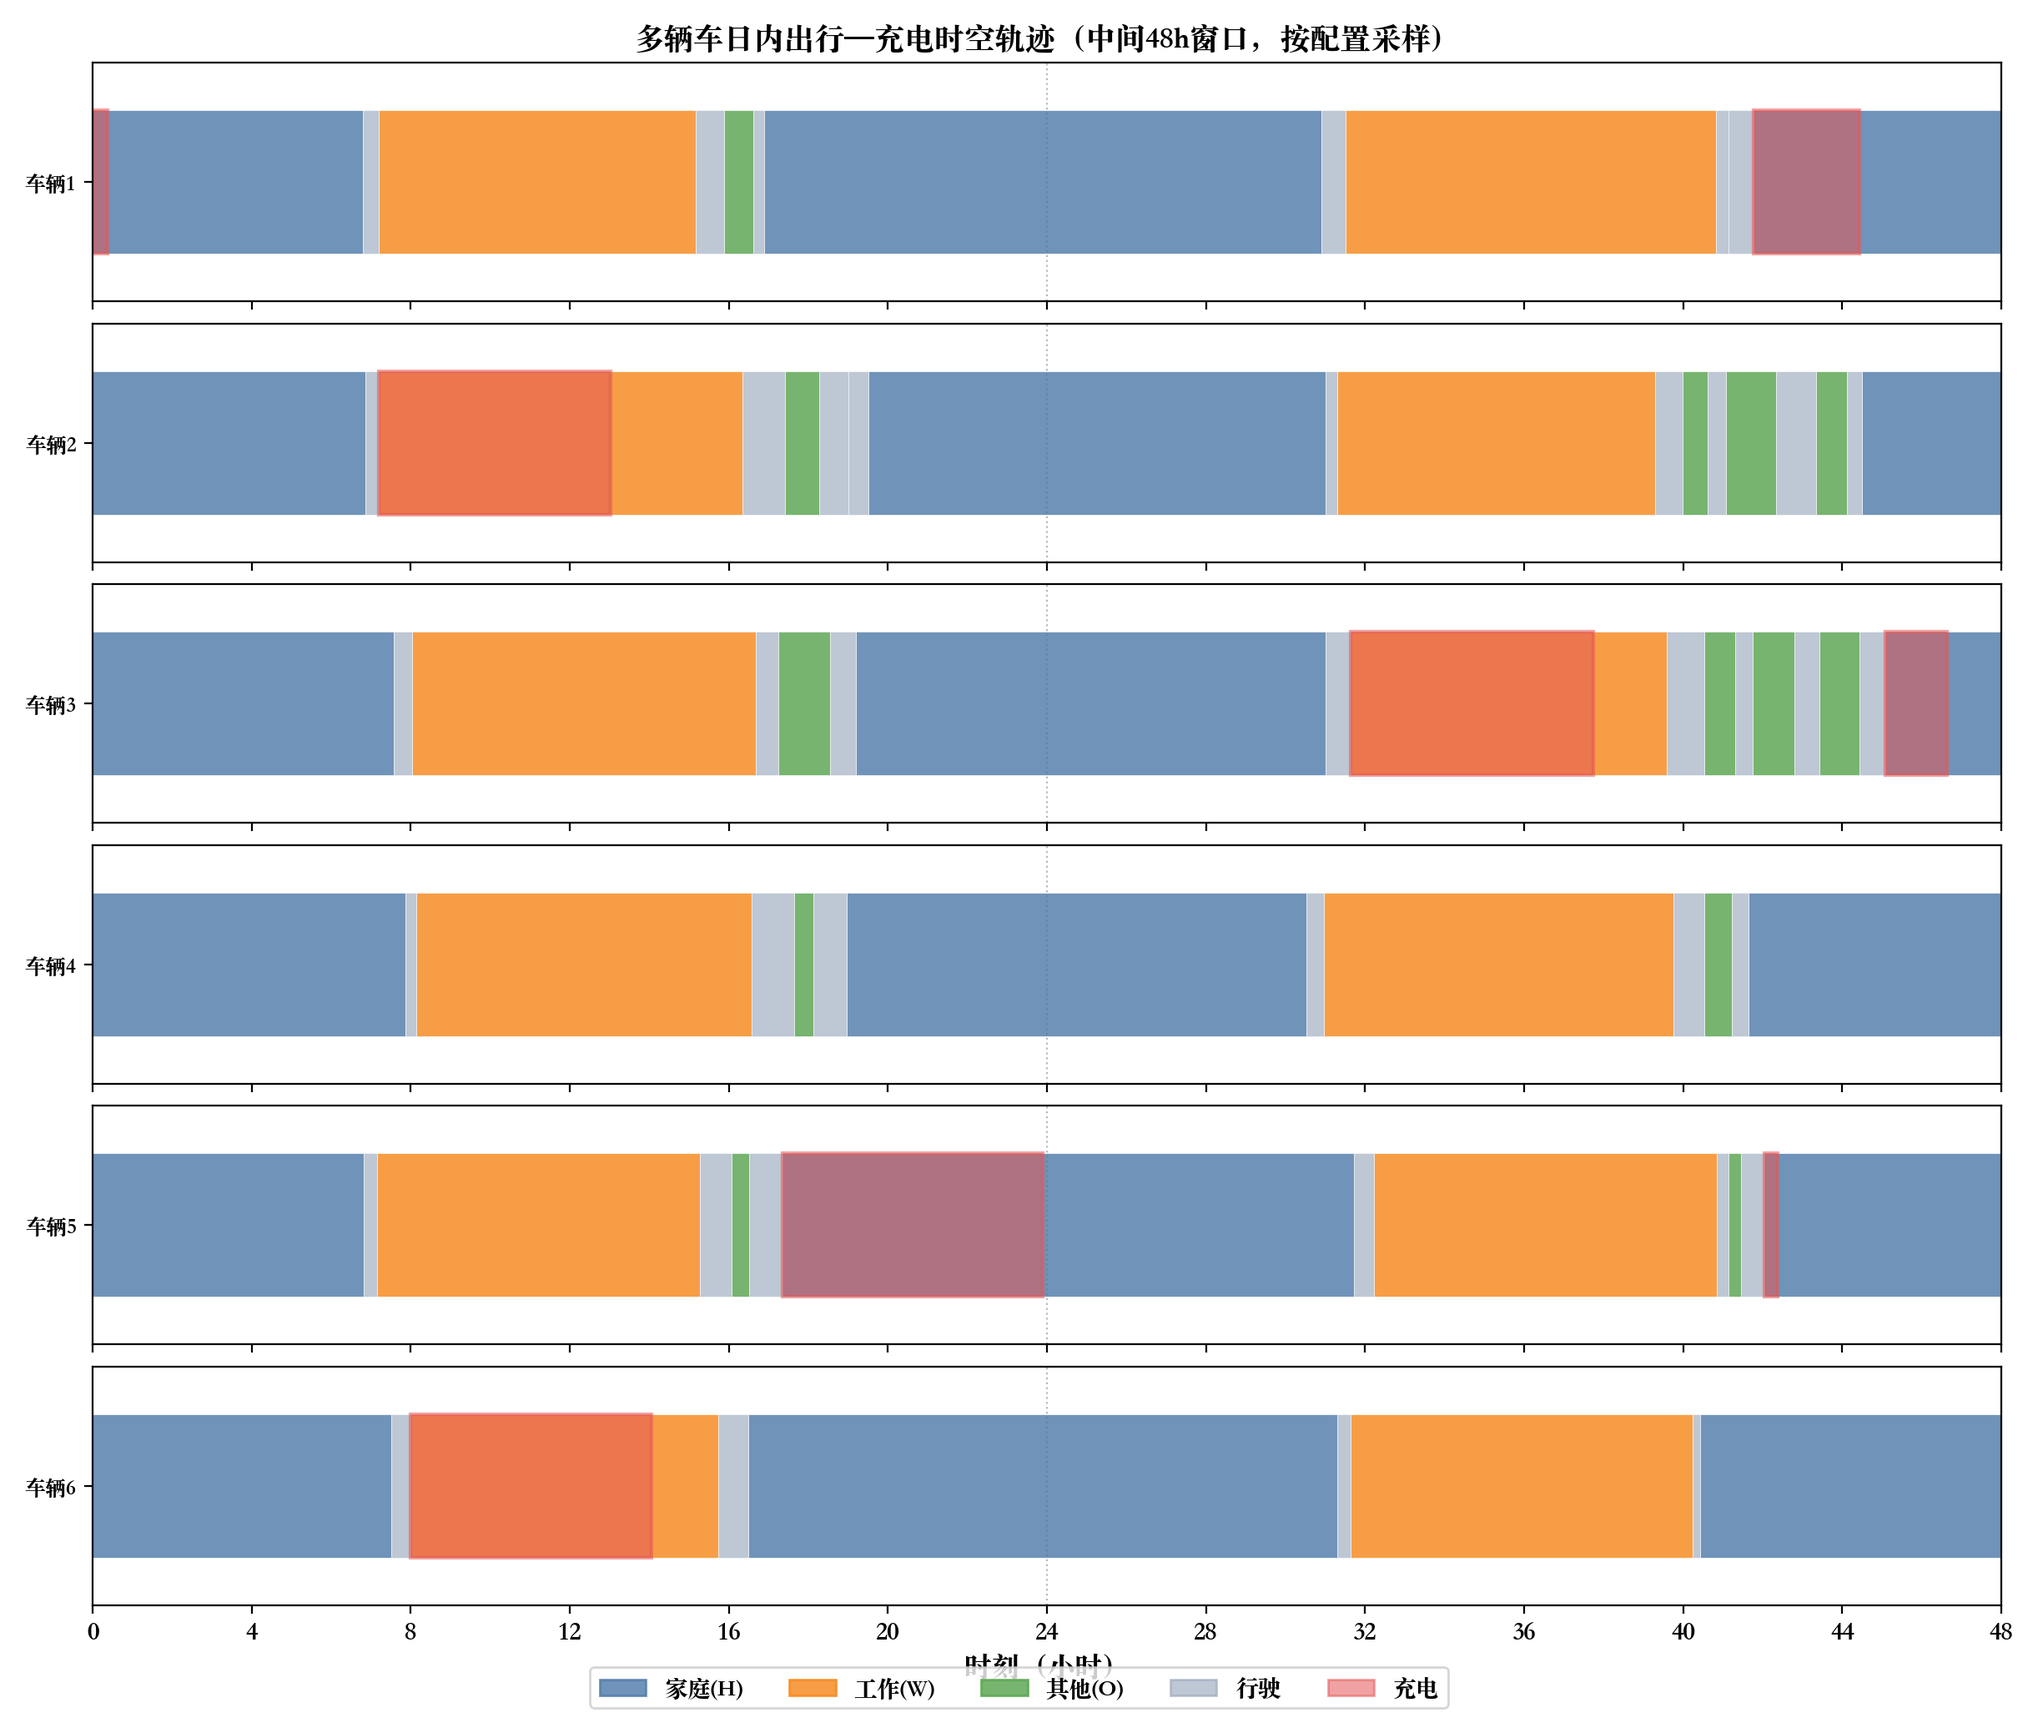
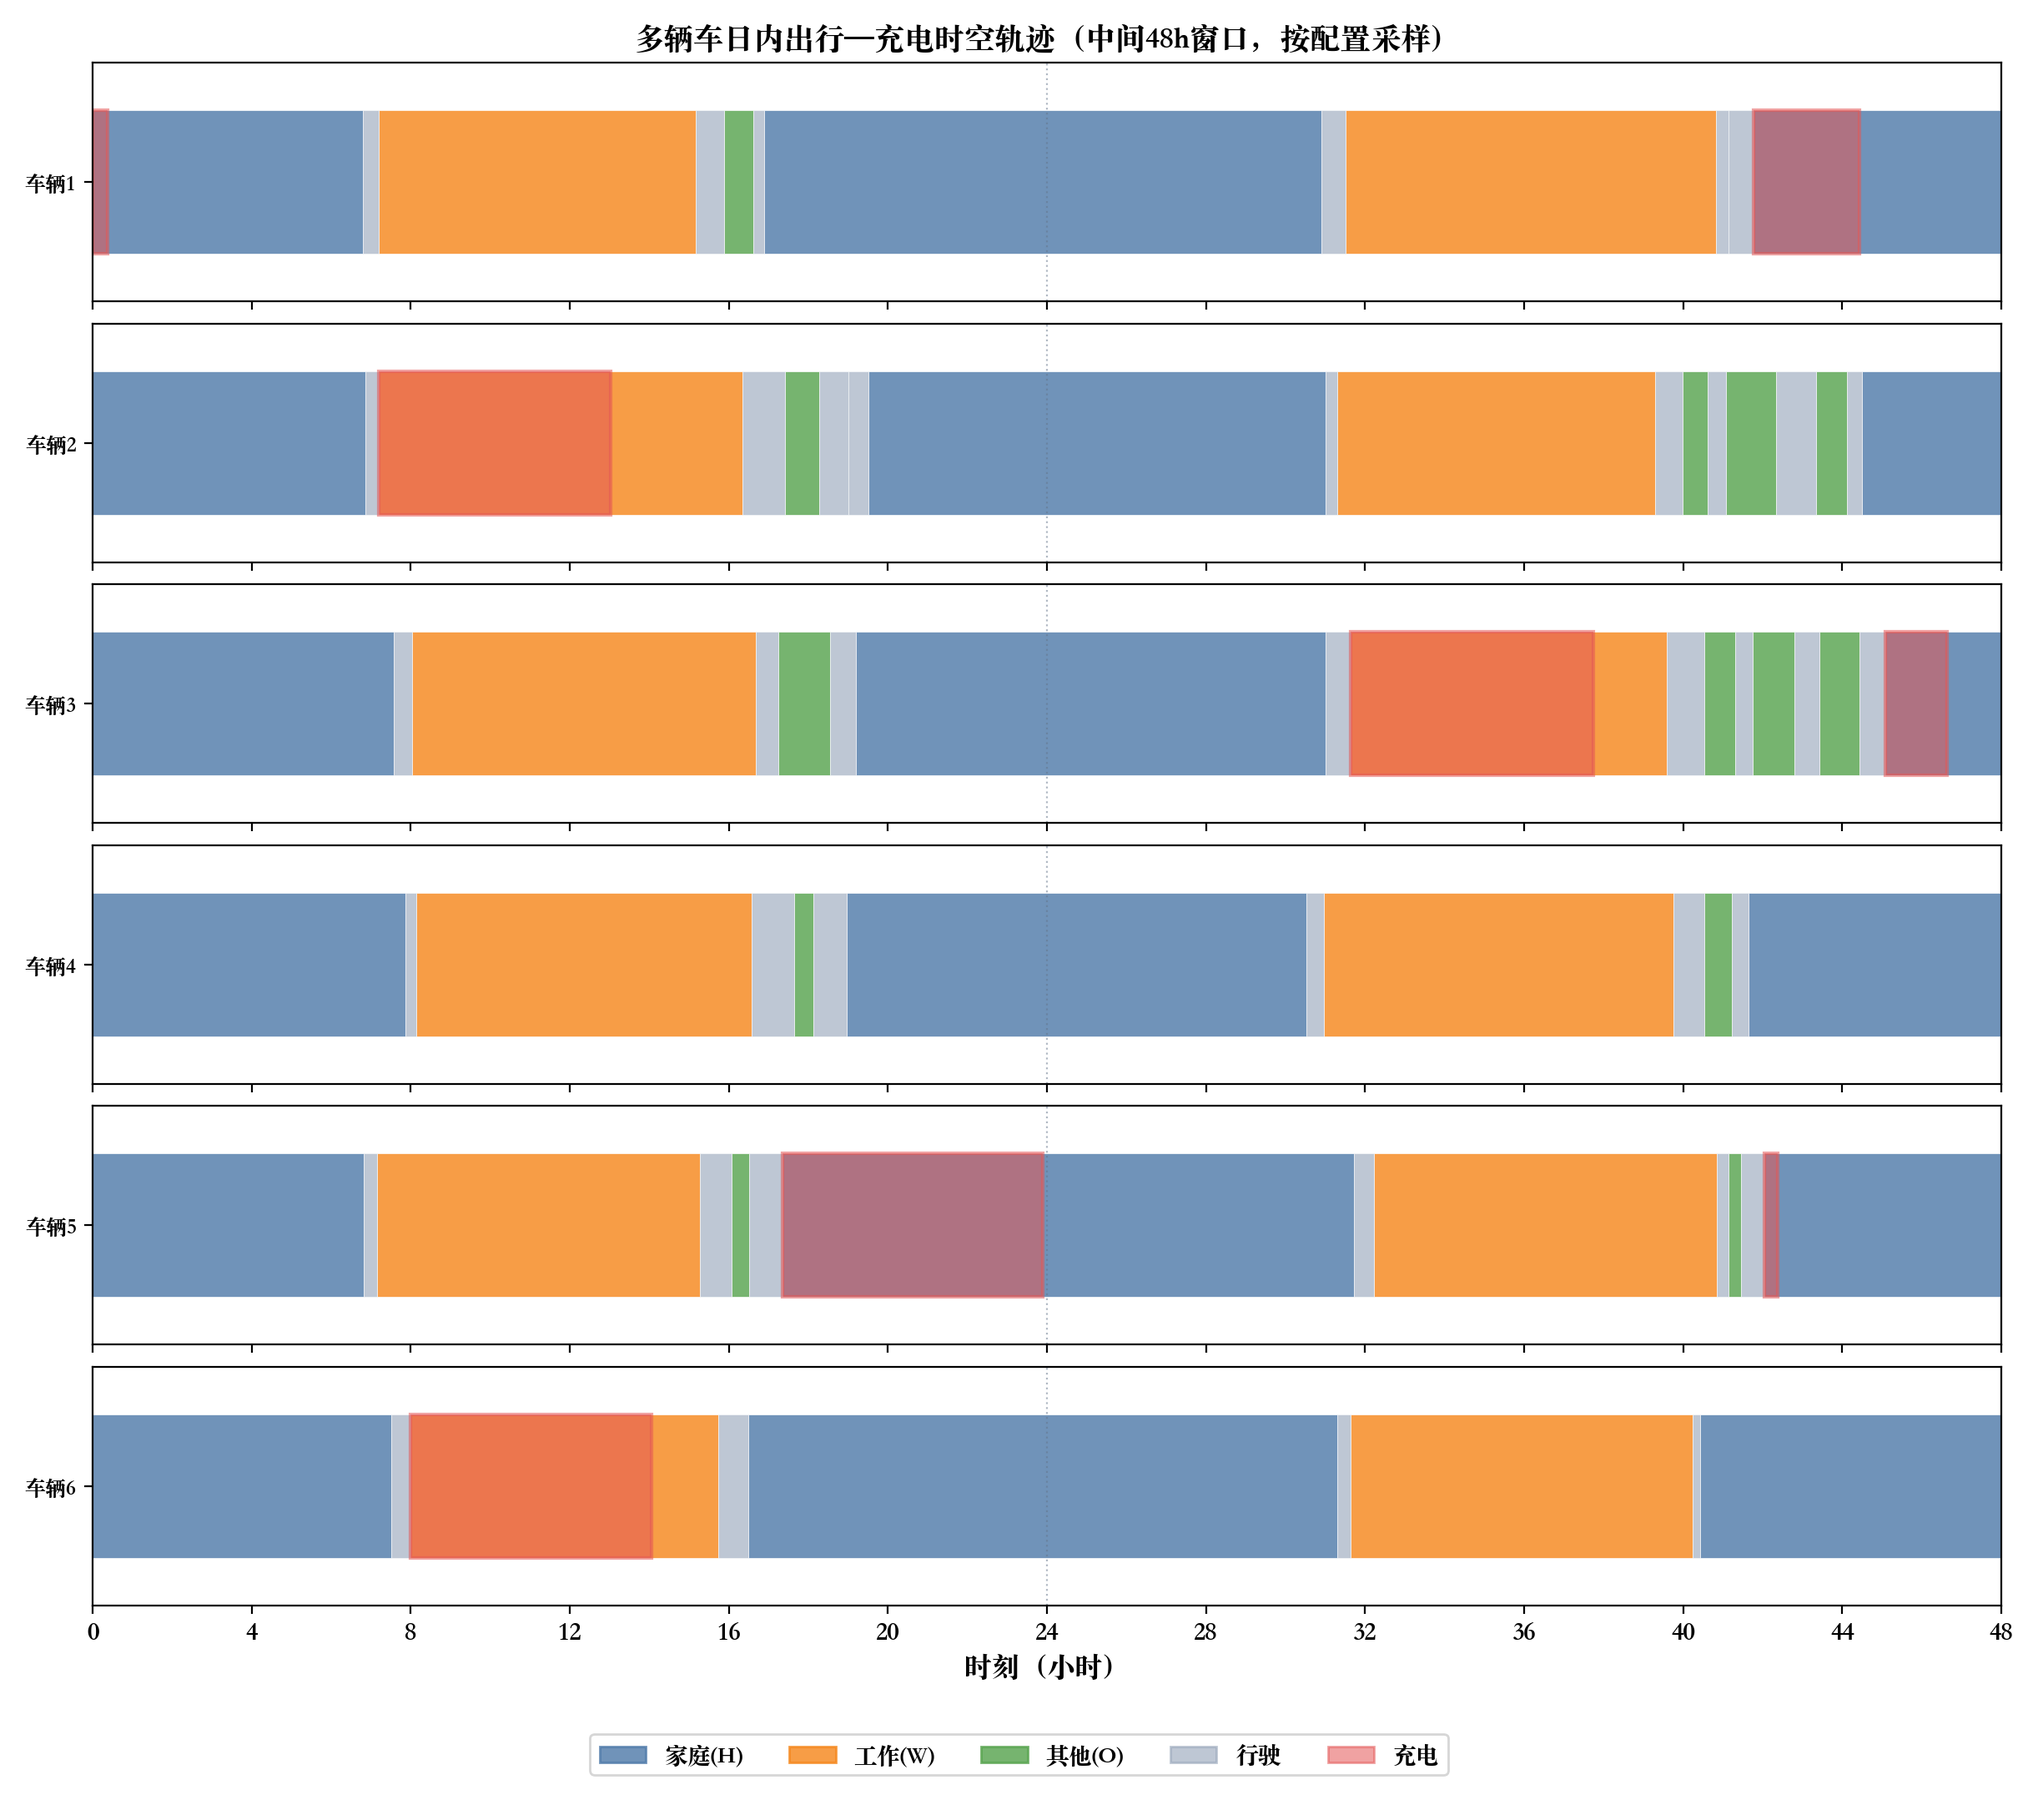
fix fig2-8

diff --git a/scripts/gen_ch2_figures.py b/scripts/gen_ch2_figures.py
@@ -903,7 +903,7 @@ def fig_2_8_activity_gantt() -> Figure:
         mpatches.Patch(color=COLORS["charge"], label="充电", alpha=0.55),
     ]
     fig.legend(handles=legend_patches, loc="lower center", ncols=5, fontsize=10,
-               bbox_to_anchor=(0.5, -0.02))
+               bbox_to_anchor=(0.5, -0.06))
     return fig
 
 
